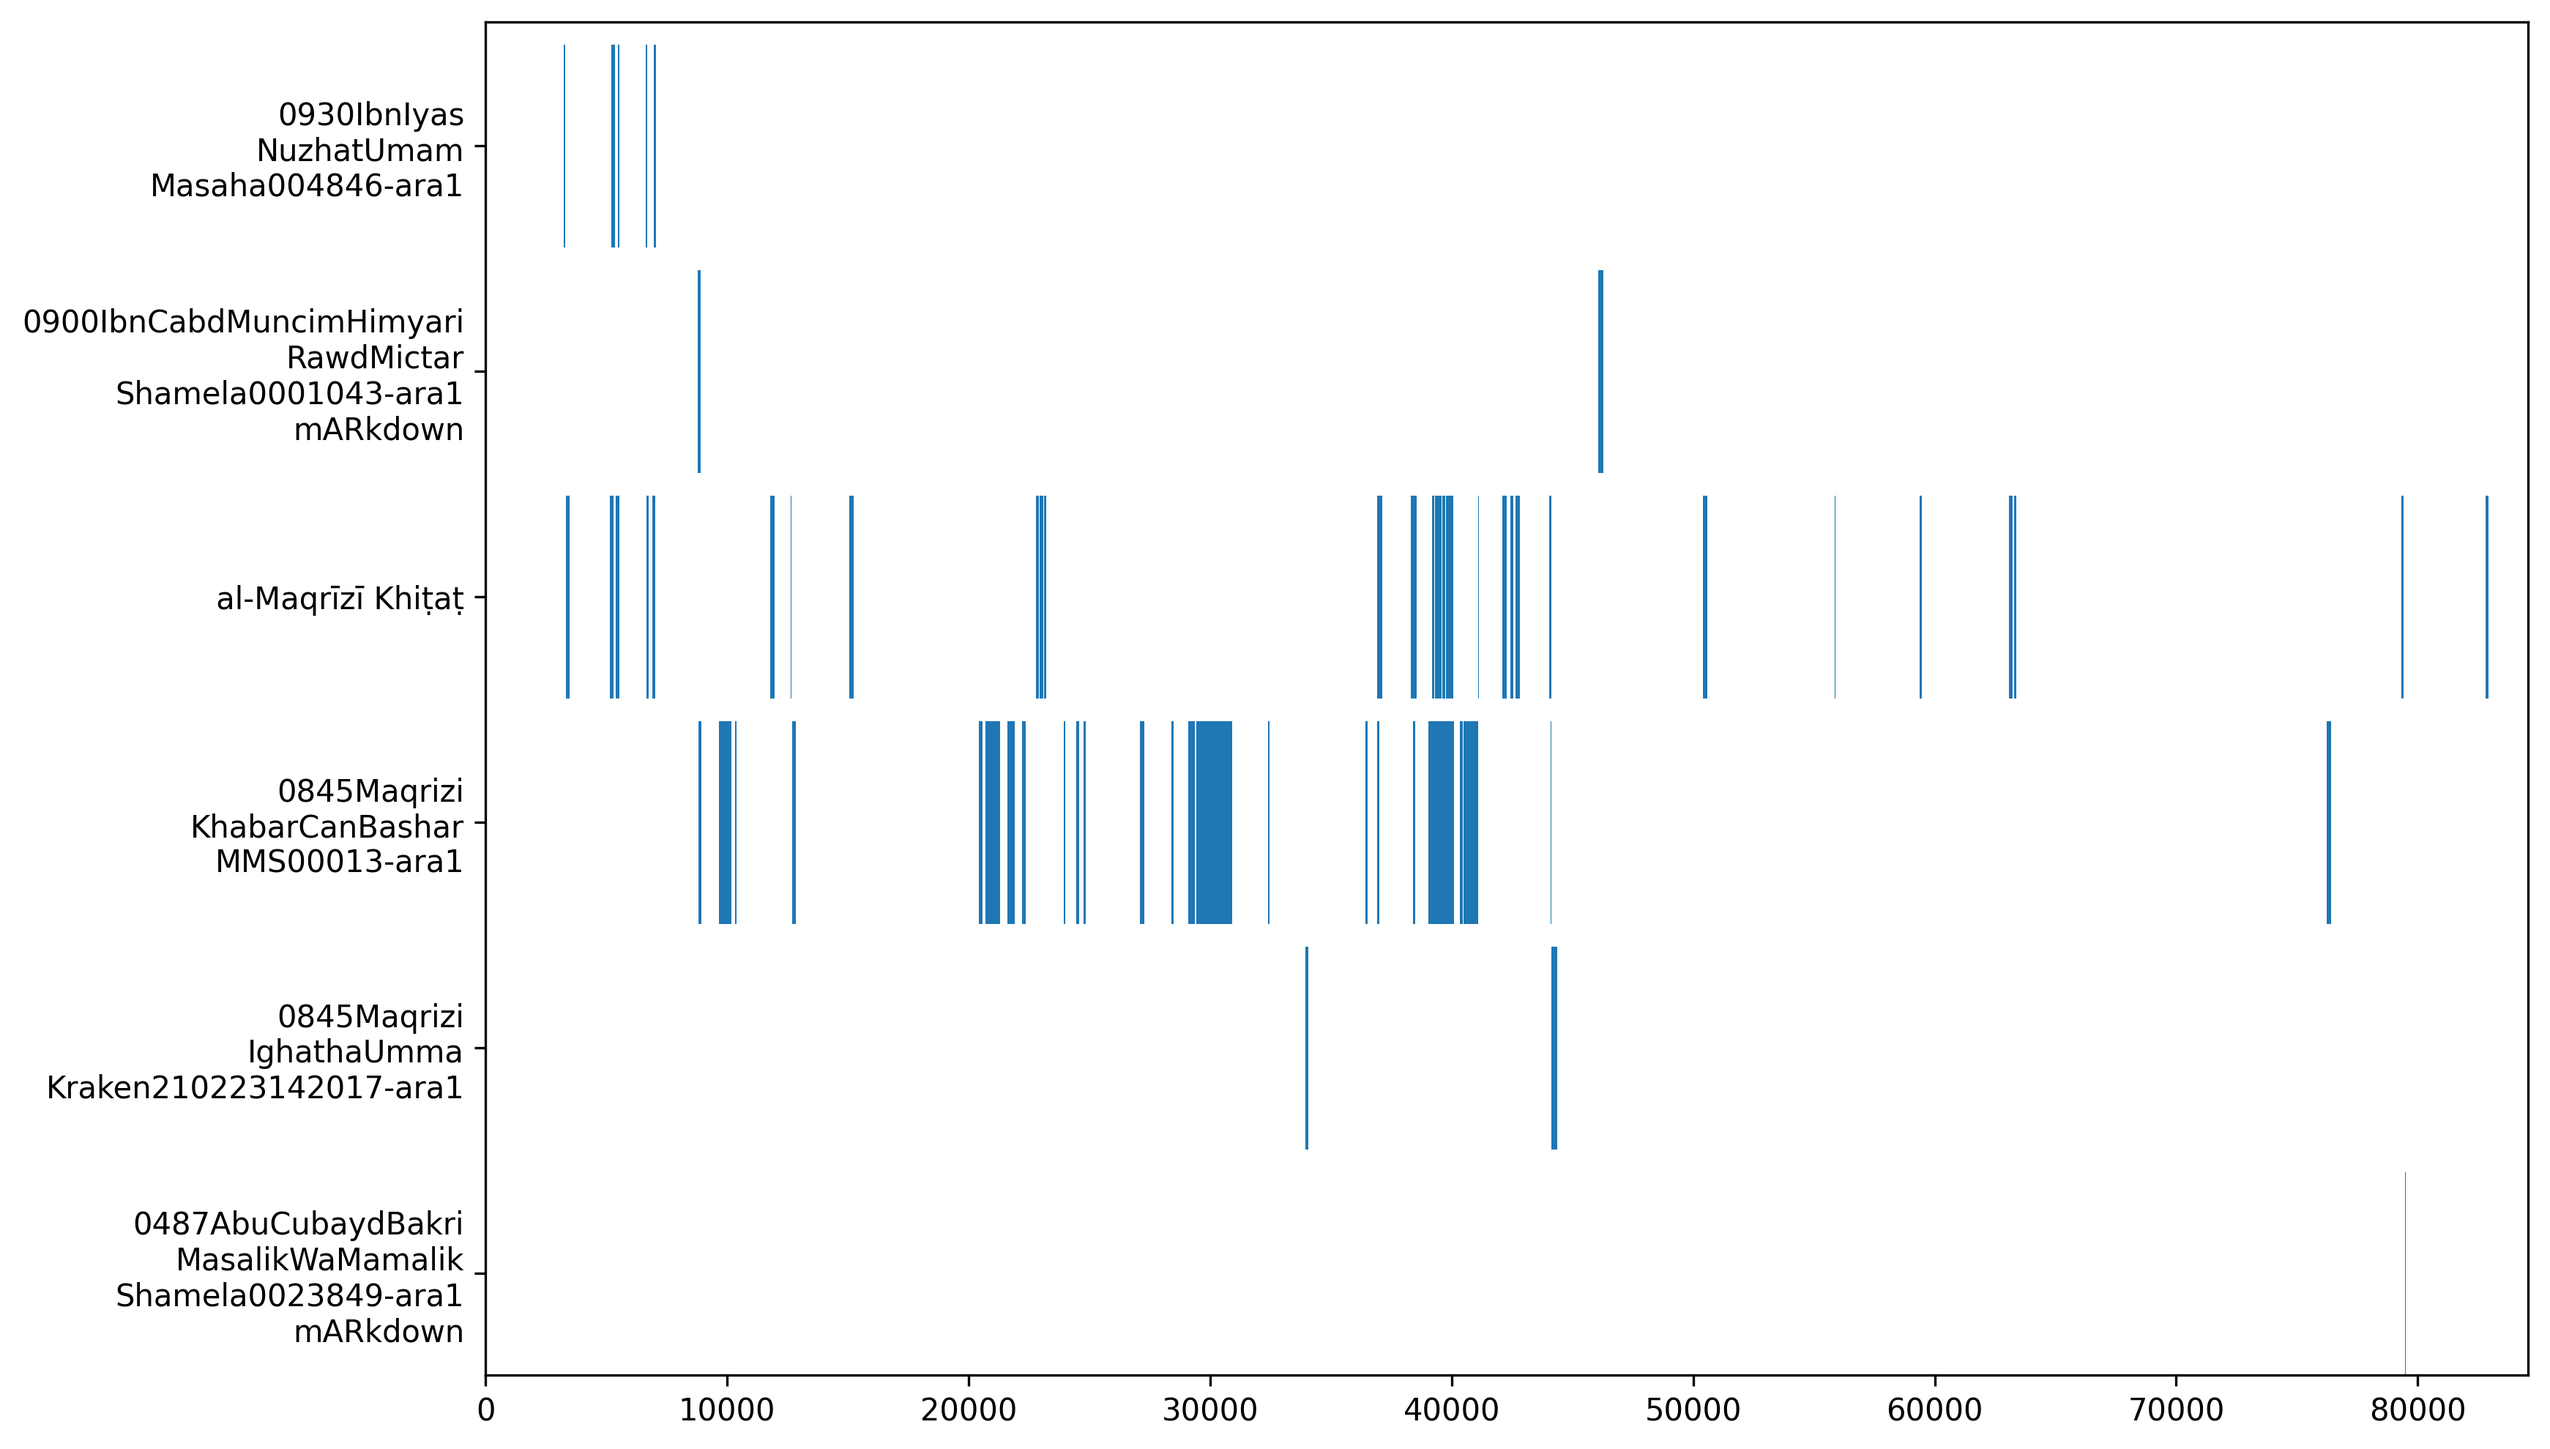
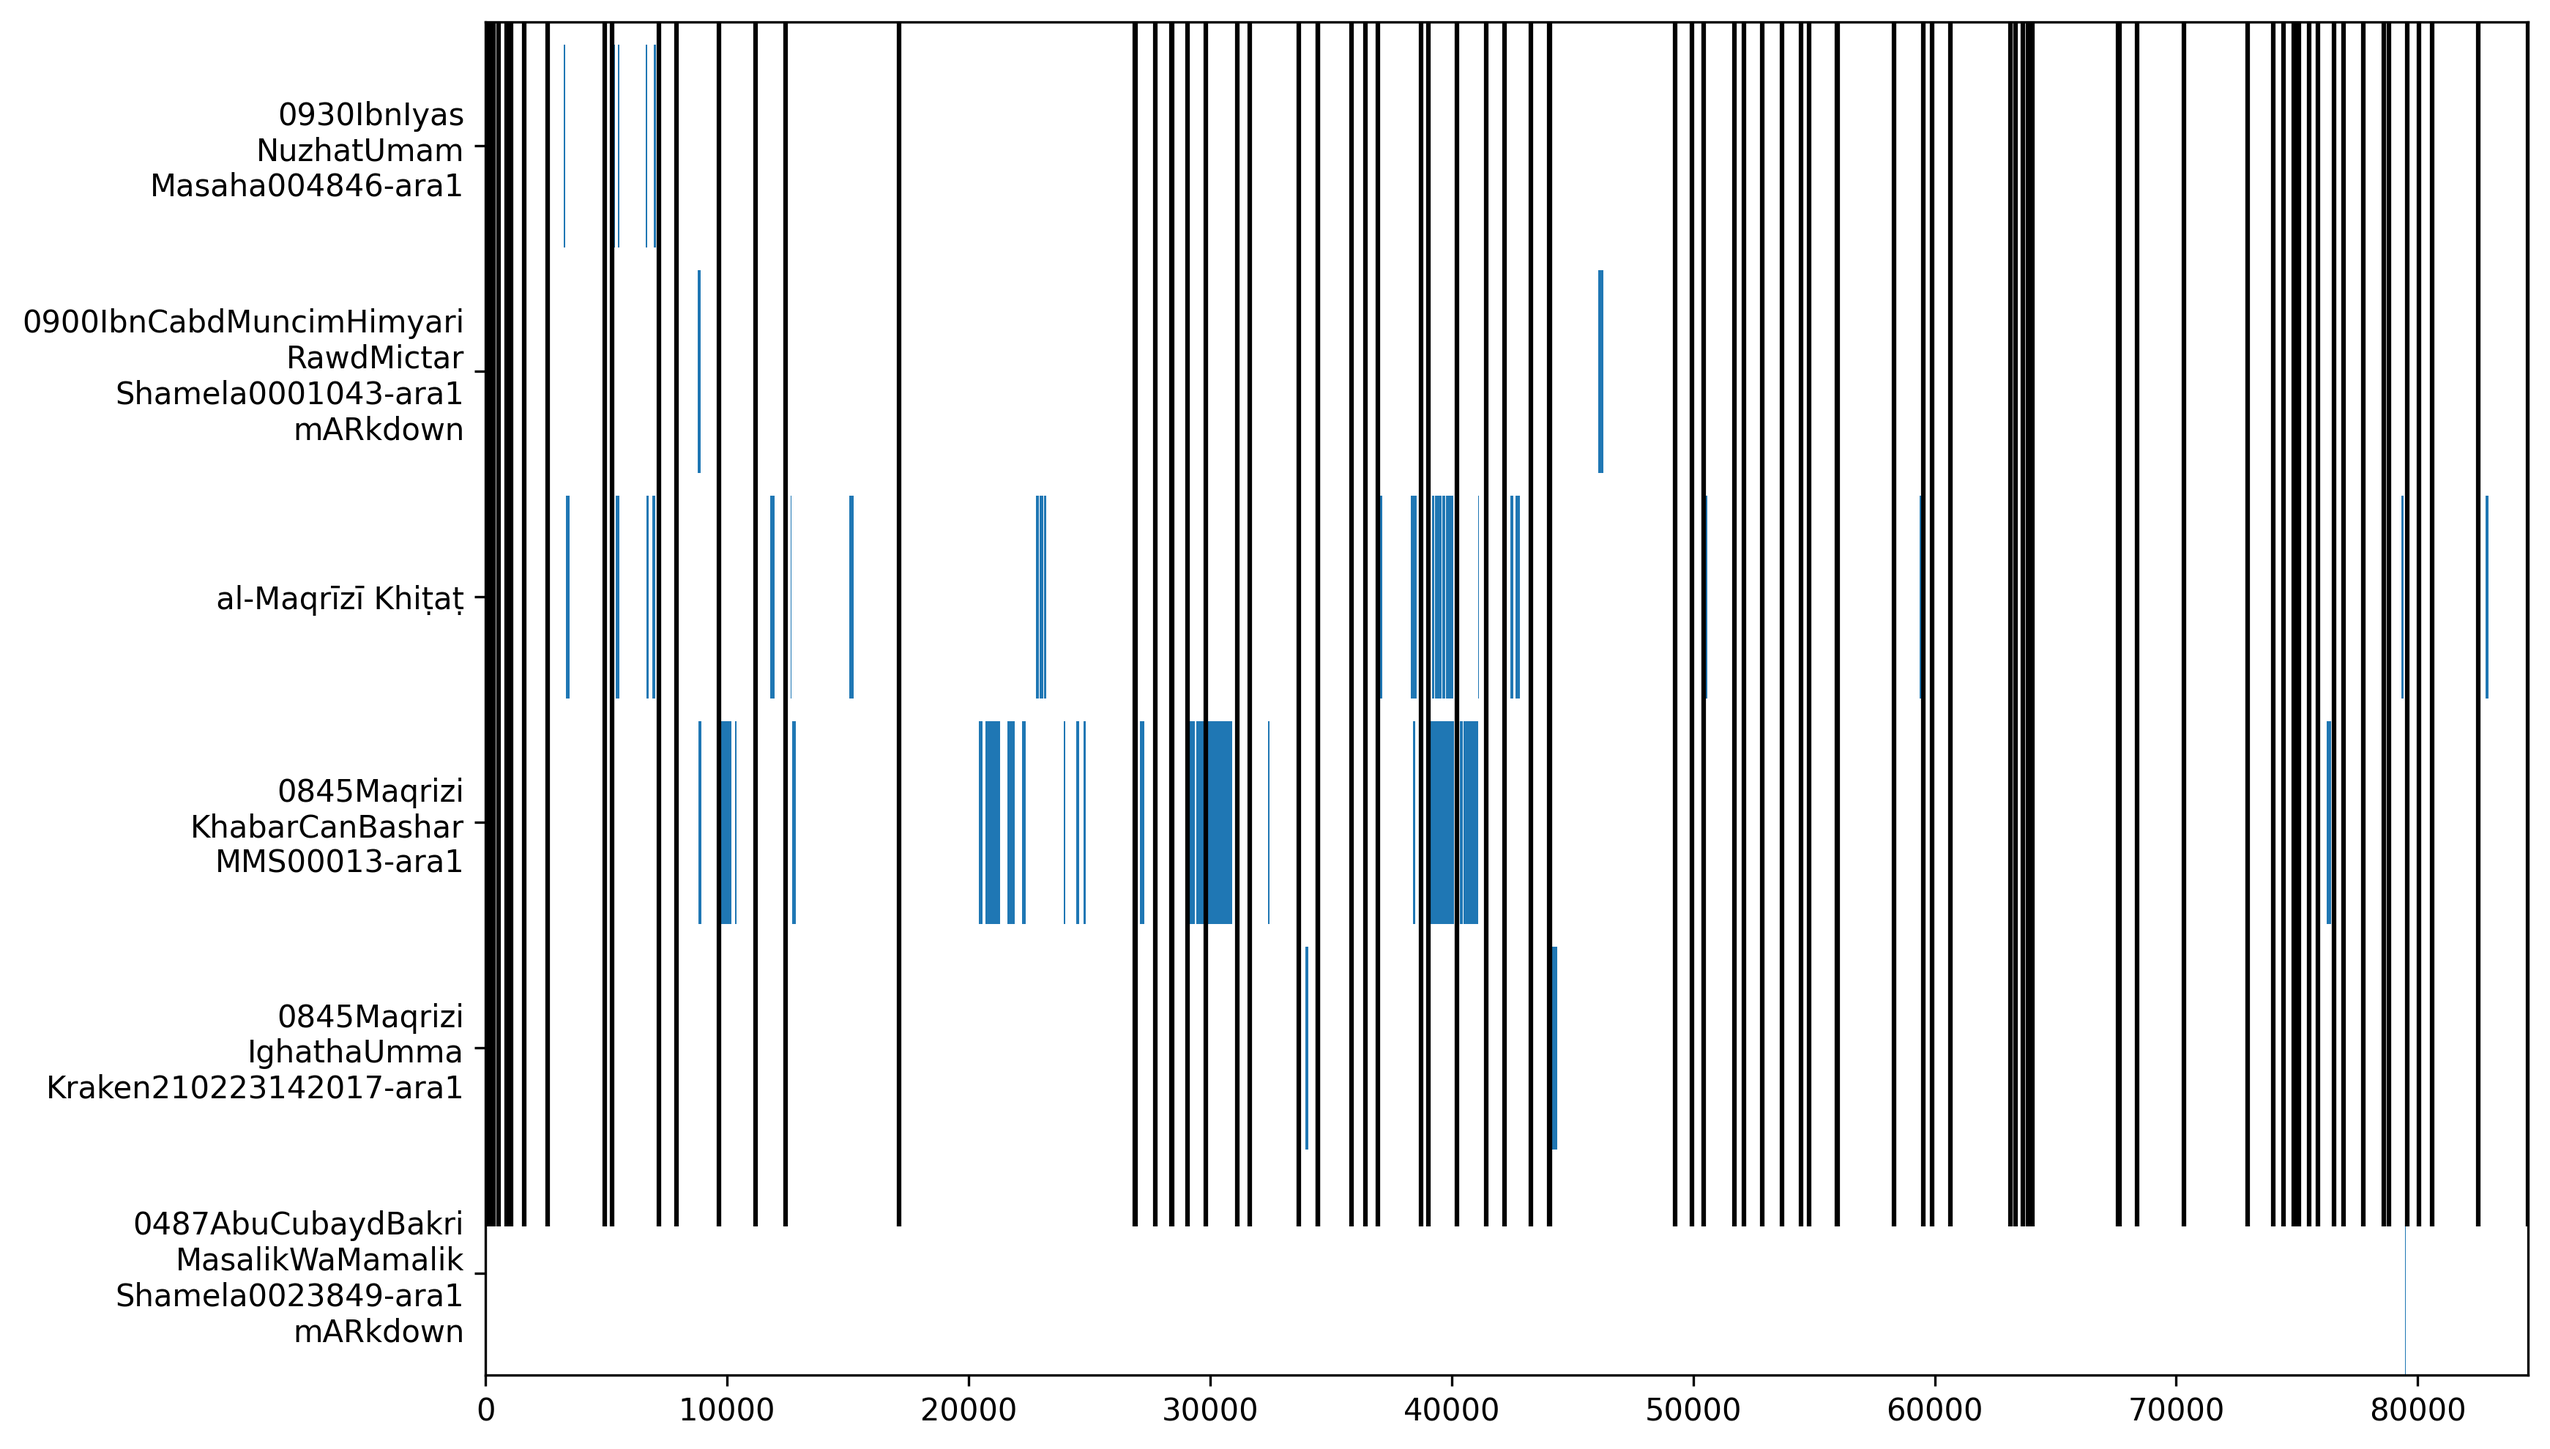
begin implementing section annotation - bugs need fix

Changed region(s): [[0.6512, 0.0, 0.9922, 0.8631], [0.4341, 0.0, 0.6202, 0.8631], [0.186, 0.0, 0.3101, 0.8631]]

diff --git a/pairwise_data/graph_pairwise.py b/pairwise_data/graph_pairwise.py
@@ -15,11 +15,13 @@ class multireuseGraph():
         """Initiate the graphing object using a directory to the mapping directory"""
 
         # Set the cols and filenames that the data needs for the graphing to work effectively - other cols are optional
-        self.data_cols = {"section_map": {"path": "section_map.csv", "cols": ["heading", "offset"]},
+        self.data_cols = {"section_map": {"path": "section_map.csv", "cols": ["heading", "offset", "level", "bio"]},
                       "reuse_map": {"path" : "reuse_map.csv", "cols": ["start_offset", "end_offset", "book2"]},
                       "meta_mapper": {"path": "meta_mapper.csv", "cols": ["variable_name", "label"]}}
         # Check and load the incoming data
         self._check_and_load_data(mapper_dir)
+
+        
     
     def _report_data_error(self, file_list, data_type, cols=None):
         """Func to handle the logic of populating files - if we have no reuse map we cannot proceed,
@@ -181,21 +183,72 @@ class multireuseGraph():
         
         patch_collection = PatchCollection(patch_list)
         self.ax.add_collection(patch_collection)
-        self.ax.set_ylim(0, v_bottom)
+        self.ax_height=v_bottom
+        self.ax.set_ylim(0, self.ax_height)
         # Add labels to axis
         self._add_book_labels(books, label_pos)
 
         # Return patch_collection in case we need to make edits later
         return patch_collection
 
-    def _write_section_maps(self, add_vlines=True, vline_height="-0.1"):
+    def _calculate_height_from_decimal(self, decimal_height, pos):
+        """Use a decimal (a percentage) to produce new height data that represents the data within the graph itself
+        pos: top - move to top of the graph, bottom - move to bottom of graph
+        TODO: Test this logic with top and bottom config - to check it draws as expected - ISSUES HERE NEED RESOLUTION"""
+
+        act_height = self.ax_height*decimal_height
+        if decimal_height < 0: 
+            if pos=='bottom':
+                act_height = 1 - act_height
+            else:
+                act_height = self.ax_height+act_height
+                self.ax_height = act_height
+        else:
+            if pos == 'top':
+                act_height = self.ax_height-act_height
+                self.ax_height = act_height
+        
+        return act_height    
+
+    def _write_section_maps(self, add_vlines=True, vline_start=-0.1, vline_height=0, heading_levels=None, exclude_bios=False, 
+                            add_labels=True, pos='top'):
         """Add the section labels to the graph
         add_vlines: add vlines as well as the labels to the x-axis
+        vline_start: position on graph (as percentage of data to start the vline) - -0.1 = start below the xaxis, 10% of total height of graph
+                    below the xaxis
         vline_height: percentage of total data used by vline - if 1 then vline will use the whole graph
-                    negative numbers will draw the lines below the graph"""
-    
+                    if 0, will draw from vline_start to xaxis
+        heading_levels: which heading levels to use as list [1,2] - use levels 1 and 2 - if None, use all in the data
+        add_labels: add labels to the xaxis based on labels in the data
+        pos: 'top' - labels and section markers at the top of the graph, 'bottom' labels and sections markers at the bottom of the graph
+        """
+        section_map = self.data_store["section_map"]
+        if section_map is None:
+            print("Cannot add vlines for sections without sections")
+        else:
+            # Calculate the actual height of the vlines - taking into account desired position
+            vline_start = self._calculate_height_from_decimal(vline_start, pos)
+            vline_height = self._calculate_height_from_decimal(vline_height, pos)
+            
+            # Filter the data based on level and bio
+            if heading_levels is not None:
+                section_map = section_map[section_map["level"].isin(heading_levels)]
+            if exclude_bios:
+                section_map = section_map[section_map["bio"] != True]
+            
+            # Add vlines using remaining data
+            if add_vlines:
+                section_pos = section_map["offset"].values.tolist()
+                
+                # ADD: Line thickness reduction, ability to shade based on heading level
+                self.ax.vlines(section_pos, vline_start, vline_height, color='black')
+            # Add labels using remaining data - if bottom we remove tokens/chars from axis and change label
+            
+            # Reset ylim after changes to account for changes in chart height
+            self.ax.set_ylim(0, self.ax_height)
+
     def _calculate_set_xlim(self, end_marker="text_end"):
-        """From data infer ylims"""
+        """From data infer xlims"""
         section_map=self.data_store["section_map"]
         if section_map is not None:
             end_pos = section_map[section_map["heading"] == end_marker]["offset"].tolist()[0]
@@ -219,6 +272,7 @@ class multireuseGraph():
             figsize = (1200*px, 800*px)
         self.fig = plt.figure(figsize=figsize)
         self.ax = self.fig.add_subplot(1, 1, 1)
+        self.ax_height=0
 
         patch_collection = self._write_graph_patches(row_gap=row_gap, sort_strategy=sort_strategy)
         self._calculate_set_xlim()

diff --git a/main.py b/main.py
@@ -14,7 +14,9 @@ data_dir = "./data/outputs/0375AnonymousTranslator.TarikhCalamUrusiyus"
 
 multireuse_graph = multireuseGraph(data_dir)
 multireuse_graph.create_reuse_graph(sort_strategy="chron")
+multireuse_graph._write_section_maps(vline_height=1, pos='bottom')
 multireuse_graph.fig.savefig("chron_test.png", bbox_inches="tight", dpi=300)
 
 multireuse_graph.create_reuse_graph(sort_strategy="reuse")
+multireuse_graph._write_section_maps(vline_height=1, pos='bottom')
 multireuse_graph.fig.savefig("reuse_test.png", bbox_inches="tight", dpi=300)
